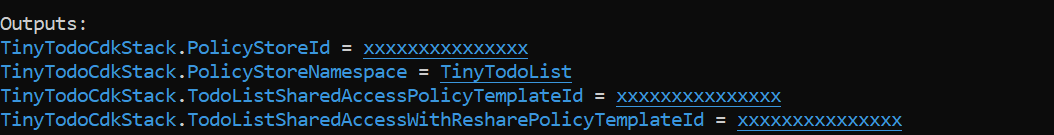
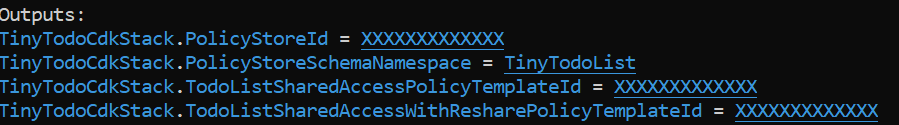
Renamed policy store schema namespace config

Changed region(s): [[0.0, 0.048, 0.8409, 0.792], [0.0, 0.816, 0.9967, 0.984]]

diff --git a/TinyTodo.Web/Authorization/VerifiedPermissionsUtil.cs b/TinyTodo.Web/Authorization/VerifiedPermissionsUtil.cs
@@ -23,7 +23,7 @@ public class VerifiedPermissionsUtil : IVerifiedPermissionsUtil
         {
             Identifier = new EntityIdentifier
             {
-                EntityType = $"{_appConfig.PolicyStoreNamespace}::User",
+                EntityType = $"{_appConfig.PolicyStoreSchemaNamespace}::User",
                 EntityId = user?.Identity?.Name
             },
             Attributes = new Dictionary<string, AttributeValue>
@@ -45,7 +45,7 @@ public class VerifiedPermissionsUtil : IVerifiedPermissionsUtil
         {
             Identifier = new EntityIdentifier
             {
-                EntityType = $"{_appConfig.PolicyStoreNamespace}::{resource.GetType().Name}",
+                EntityType = $"{_appConfig.PolicyStoreSchemaNamespace}::{resource.GetType().Name}",
                 EntityId = $"{resource.Id}"
             },
             Attributes = ToDictionary(resource)

diff --git a/TinyTodo.Web/AppConfig.cs b/TinyTodo.Web/AppConfig.cs
@@ -19,11 +19,11 @@ public class AppConfig : IAppConfig
         }
     }
 
-    public string PolicyStoreNamespace
+    public string PolicyStoreSchemaNamespace
     {
         get
         {
-            return VerifiedPermissions.GetValue<string>(nameof(PolicyStoreNamespace));
+            return VerifiedPermissions.GetValue<string>(nameof(PolicyStoreSchemaNamespace));
         }
     }
 
@@ -52,7 +52,7 @@ public class AppConfig : IAppConfig
     {
         get
         {
-            return $"{PolicyStoreNamespace}::Action";
+            return $"{PolicyStoreSchemaNamespace}::Action";
         }
     }
 }

diff --git a/TinyTodo.Web/IAppConfig.cs b/TinyTodo.Web/IAppConfig.cs
@@ -3,7 +3,7 @@ namespace TinyTodo.Web;
 public interface IAppConfig
 {
     string PolicyStoreId { get; }
-    string PolicyStoreNamespace { get; }
+    string PolicyStoreSchemaNamespace { get; }
     string TodoListSharedAccessPolicyTemplateId { get; }
     string TodoListSharedAccessWithResharePolicyTemplateId { get; }
     string ActionType { get; }
